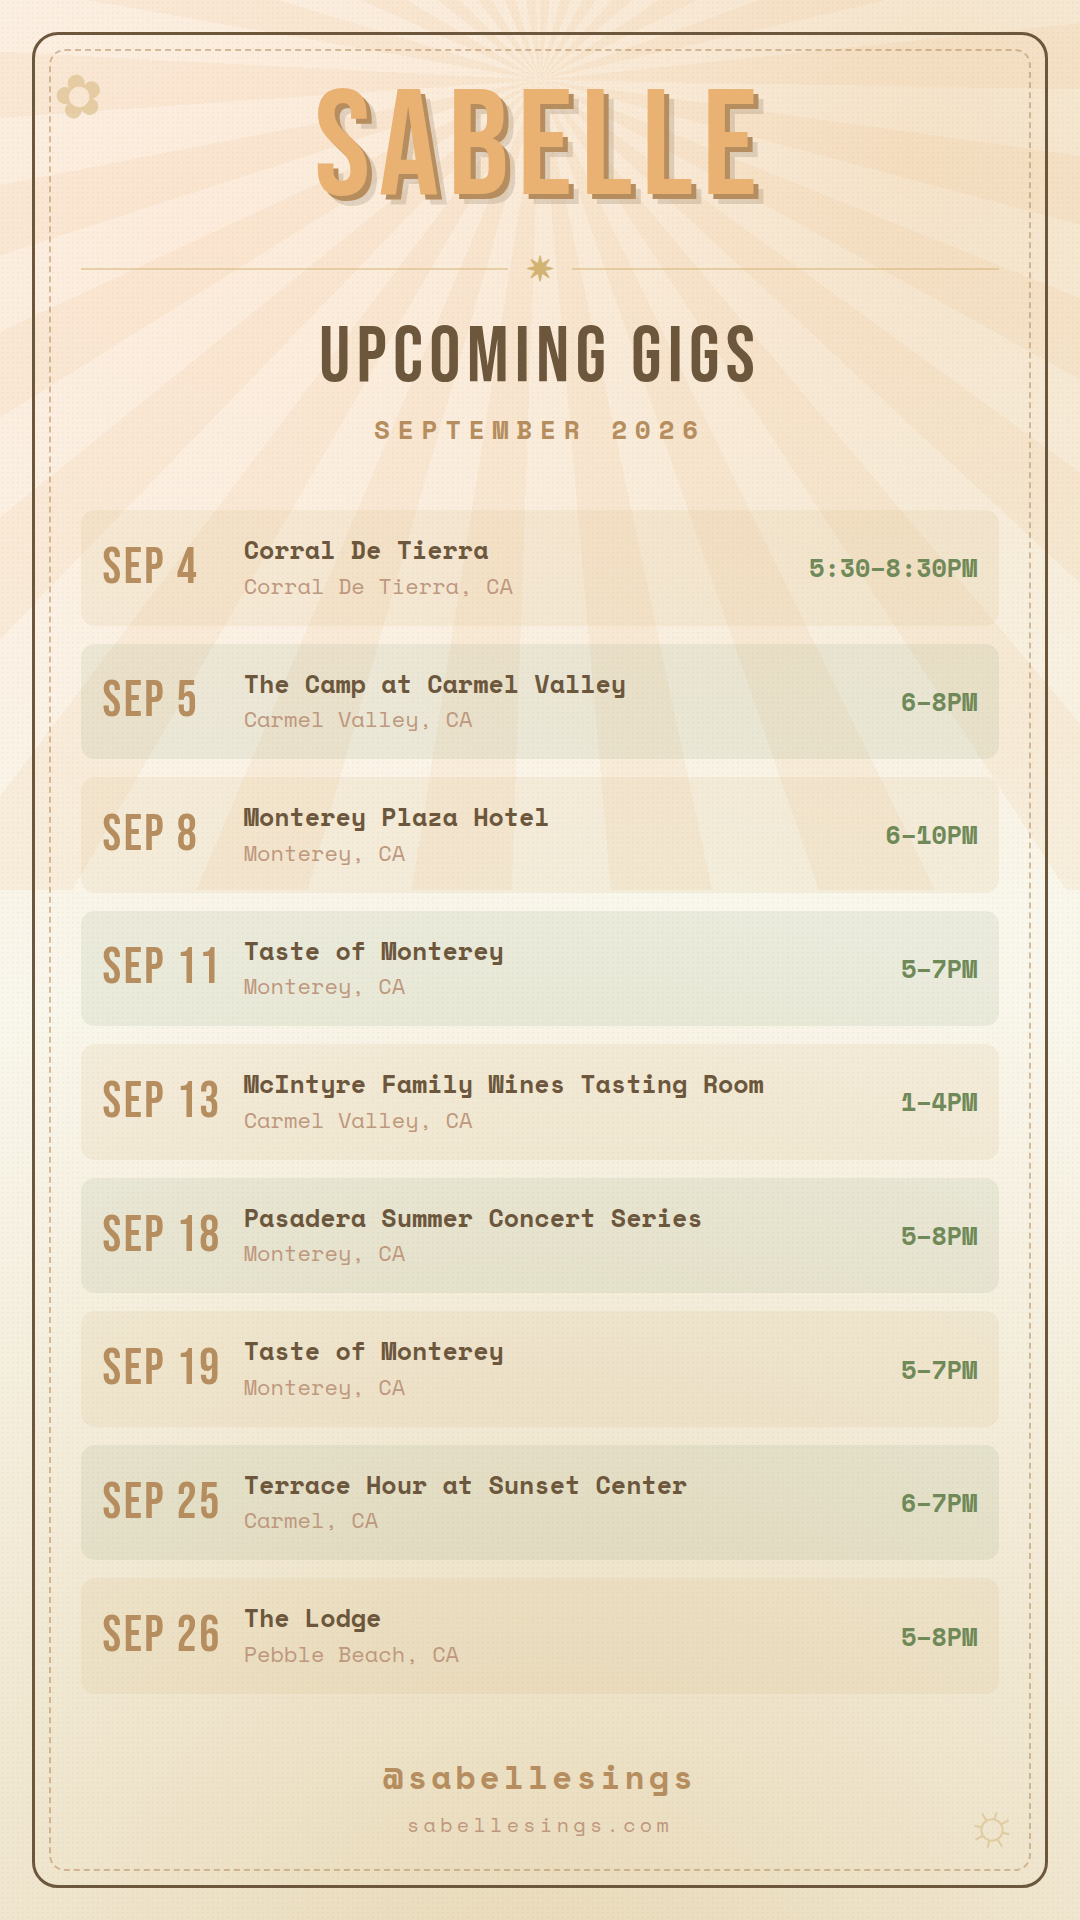
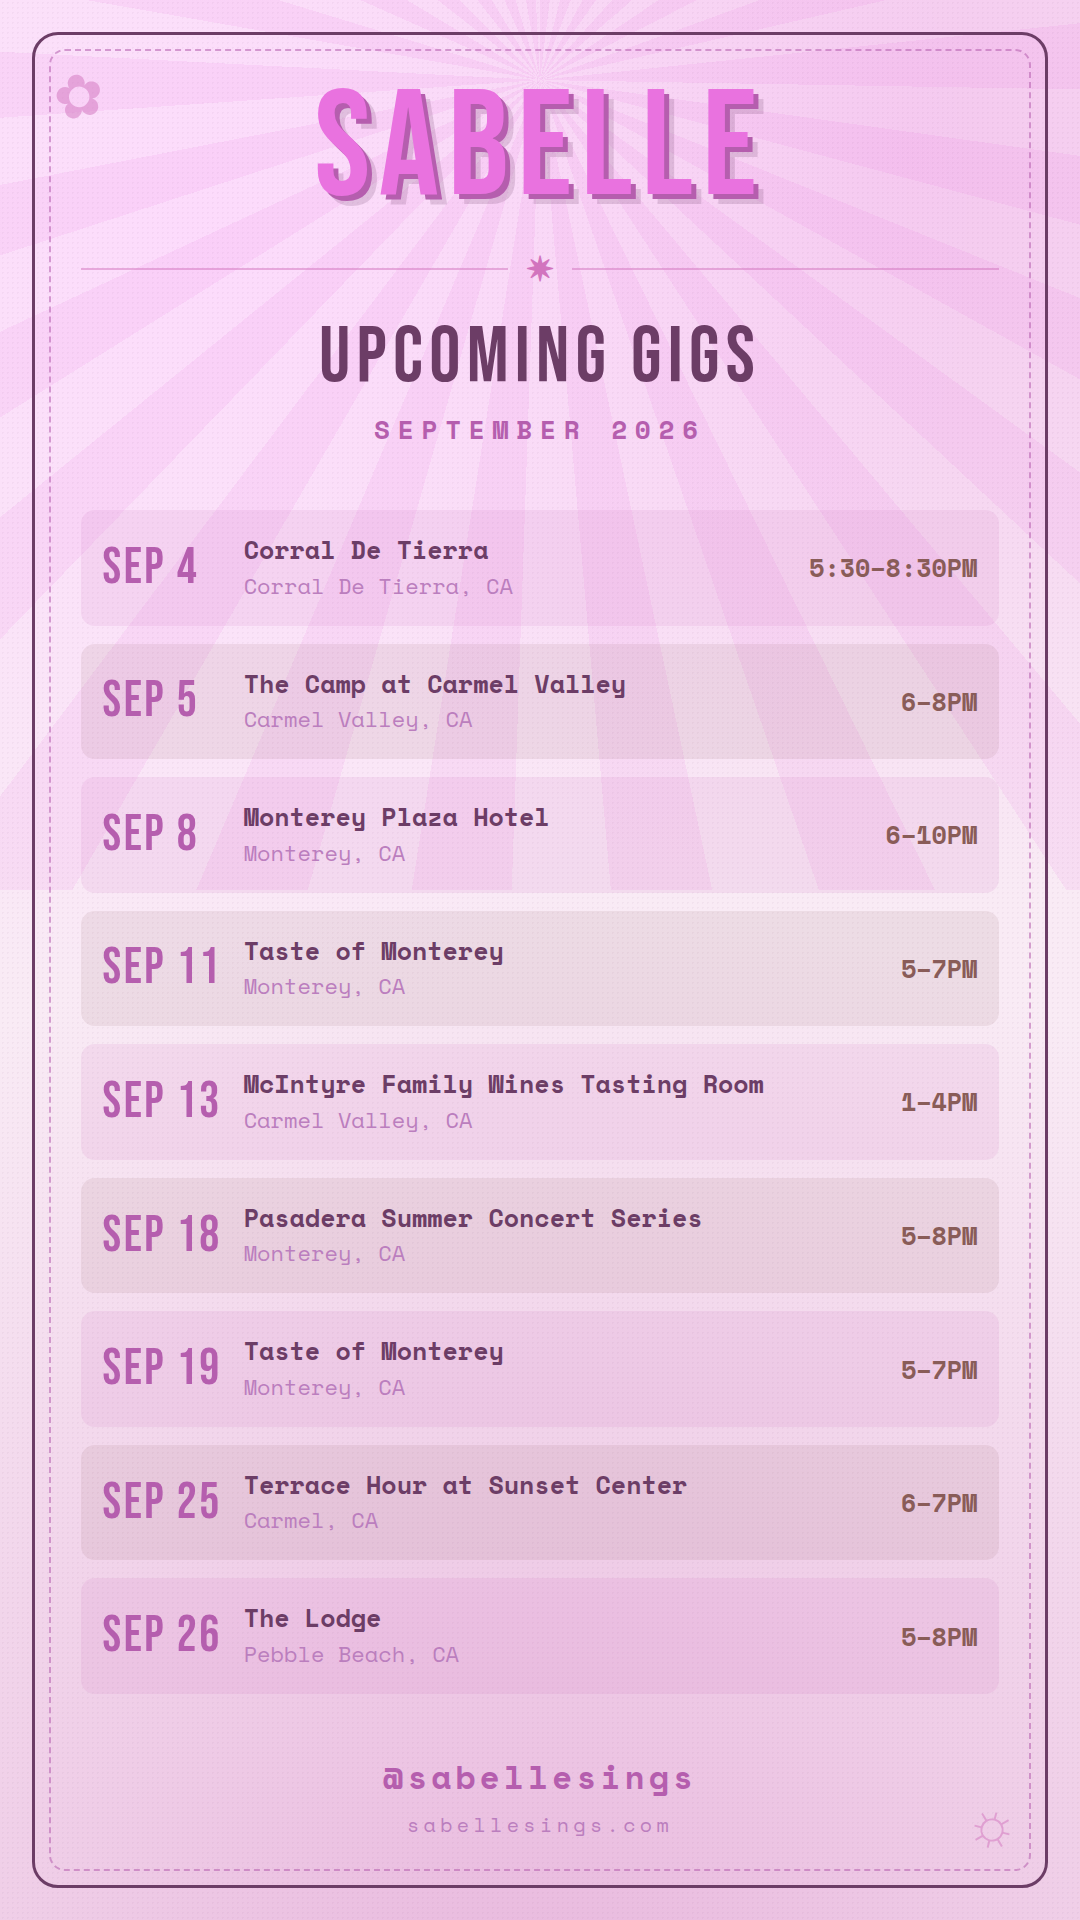
Give September its own colour instead of a second orange
Apricot sat at hue 32, eleven degrees off July's sunset, so a September poster
came out looking like a July rerun -- which defeats the point of rotating the
colour at all. September moves to orchid at 305, the emptiest gap left on the
wheel: 148 degrees from August's sage and 48 from October's terracotta, so the
autumn run reads as three clearly different posters.

Checked the rest of the rotation for the same fault while I was in there.
December to January is the next closest consecutive pair at 25 degrees, but
side by side it holds up -- frost is cyan and periwinkle is cornflower, and 25
degrees separates further in the blues than it does in the oranges. Left alone.

Claude-Session: https://claude.ai/code/session_013qvfFWFemzSJdDJocT6BYd

diff --git a/gigs/index.html b/gigs/index.html
@@ -8,25 +8,25 @@
 <link href="https://fonts.googleapis.com/css2?family=Bebas+Neue&family=Kalam:wght@300;400;700&family=Space+Mono:ital,wght@0,400;0,700;1,400&display=swap" rel="stylesheet">
 <style>
   *{margin:0;padding:0;box-sizing:border-box}
-  body{background:#F9F6EB;color:#6C573D;font-family:'Space Mono',monospace;
+  body{background:#F9EBF5;color:#6C3D66;font-family:'Space Mono',monospace;
        padding:40px 20px;line-height:1.6}
   .wrap{max-width:900px;margin:0 auto}
-  h1{font-family:'Bebas Neue',sans-serif;font-size:56px;color:#B58D5E;letter-spacing:.05em}
-  .sub{font-family:'Kalam',cursive;color:#BE987E;font-size:20px;margin-bottom:28px}
+  h1{font-family:'Bebas Neue',sans-serif;font-size:56px;color:#B55EAE;letter-spacing:.05em}
+  .sub{font-family:'Kalam',cursive;color:#BB7EBE;font-size:20px;margin-bottom:28px}
   .cards{display:flex;gap:28px;flex-wrap:wrap;margin:28px 0}
   .col{flex:1;min-width:260px}
   .col h2{font-family:'Bebas Neue',sans-serif;font-size:26px;letter-spacing:.08em;margin-bottom:10px}
-  img{width:100%;border:3px solid #6C573D;border-radius:14px;display:block}
-  a.btn{display:inline-block;margin-top:12px;background:#E9B172;color:#fff;
+  img{width:100%;border:3px solid #6C3D66;border-radius:14px;display:block}
+  a.btn{display:inline-block;margin-top:12px;background:#E972DF;color:#fff;
         text-decoration:none;padding:12px 22px;border-radius:30px;font-weight:700}
-  a.btn:hover{background:#B58D5E}
+  a.btn:hover{background:#B55EAE}
   ul{list-style:none;margin:14px 0}
-  li{padding:10px 14px;background:rgba(210,179,116,0.22);border-radius:10px;margin-bottom:8px}
-  .box{background:rgba(111,137,88,0.1);border:2px dashed #6F8958;border-radius:14px;
+  li{padding:10px 14px;background:rgba(210,116,190,0.22);border-radius:10px;margin-bottom:8px}
+  .box{background:rgba(137,92,88,0.1);border:2px dashed #895C58;border-radius:14px;
        padding:18px;margin-top:14px}
   textarea{width:100%;min-height:130px;border:none;background:transparent;
            font:inherit;color:inherit;resize:vertical}
-  .note{font-size:13px;color:#BE987E;margin-top:30px}
+  .note{font-size:13px;color:#BB7EBE;margin-top:30px}
 </style></head>
 <body><div class="wrap">
   <h1>GIG GRAPHICS</h1>

diff --git a/gigs/card-post.html b/gigs/card-post.html
@@ -4,7 +4,7 @@
 <link rel="preconnect" href="https://fonts.googleapis.com">
 <link rel="preconnect" href="https://fonts.gstatic.com" crossorigin>
 <link href="https://fonts.googleapis.com/css2?family=Bebas+Neue&family=Kalam:wght@300;400;700&family=Space+Mono:ital,wght@0,400;0,700;1,400&display=swap" rel="stylesheet">
-<style>:root{--wash:#F9F6EB;--tint:#FDE9D8;--accent:#E9B172;--accent-deep:#B58D5E;--soft:#BE987E;--warm:#D2B374;--contrast:#6F8958;--ink:#6C573D;--tint-85:rgba(253,233,216,0.85);--accent-30:rgba(233,177,114,0.3);--warm-45:rgba(210,179,116,0.45);--accent-16:rgba(233,177,114,0.16);--warm-13:rgba(210,179,116,0.13);--contrast-10:rgba(111,137,88,0.1);--ink-18:rgba(108,87,61,0.18);}
+<style>:root{--wash:#F9EBF5;--tint:#FDD8FD;--accent:#E972DF;--accent-deep:#B55EAE;--soft:#BB7EBE;--warm:#D274BE;--contrast:#895C58;--ink:#6C3D66;--tint-85:rgba(253,216,253,0.85);--accent-30:rgba(233,114,223,0.3);--warm-45:rgba(210,116,190,0.45);--accent-16:rgba(233,114,223,0.16);--warm-13:rgba(210,116,190,0.13);--contrast-10:rgba(137,92,88,0.1);--ink-18:rgba(108,61,102,0.18);}
 * { margin:0; padding:0; box-sizing:border-box; }
 html,body{ background:#fff; }
 body{ display:flex; align-items:center; justify-content:center; }

diff --git a/gigs/card-story.html b/gigs/card-story.html
@@ -4,7 +4,7 @@
 <link rel="preconnect" href="https://fonts.googleapis.com">
 <link rel="preconnect" href="https://fonts.gstatic.com" crossorigin>
 <link href="https://fonts.googleapis.com/css2?family=Bebas+Neue&family=Kalam:wght@300;400;700&family=Space+Mono:ital,wght@0,400;0,700;1,400&display=swap" rel="stylesheet">
-<style>:root{--wash:#F9F6EB;--tint:#FDE9D8;--accent:#E9B172;--accent-deep:#B58D5E;--soft:#BE987E;--warm:#D2B374;--contrast:#6F8958;--ink:#6C573D;--tint-85:rgba(253,233,216,0.85);--accent-30:rgba(233,177,114,0.3);--warm-45:rgba(210,179,116,0.45);--accent-16:rgba(233,177,114,0.16);--warm-13:rgba(210,179,116,0.13);--contrast-10:rgba(111,137,88,0.1);--ink-18:rgba(108,87,61,0.18);}
+<style>:root{--wash:#F9EBF5;--tint:#FDD8FD;--accent:#E972DF;--accent-deep:#B55EAE;--soft:#BB7EBE;--warm:#D274BE;--contrast:#895C58;--ink:#6C3D66;--tint-85:rgba(253,216,253,0.85);--accent-30:rgba(233,114,223,0.3);--warm-45:rgba(210,116,190,0.45);--accent-16:rgba(233,114,223,0.16);--warm-13:rgba(210,116,190,0.13);--contrast-10:rgba(137,92,88,0.1);--ink-18:rgba(108,61,102,0.18);}
 * { margin:0; padding:0; box-sizing:border-box; }
 html,body{ background:#fff; }
 body{ display:flex; align-items:center; justify-content:center; }

diff --git a/scripts/render_gig_card.py b/scripts/render_gig_card.py
@@ -46,7 +46,7 @@ MONTH_HUES = {
     6:  (175, "seafoam"),
     7:  (21,  "sunset"),
     8:  (95,  "sage"),
-    9:  (32,  "apricot"),
+    9:  (305, "orchid"),
     10: (355, "terracotta"),
     11: (255, "lavender"),
     12: (195, "frost"),
